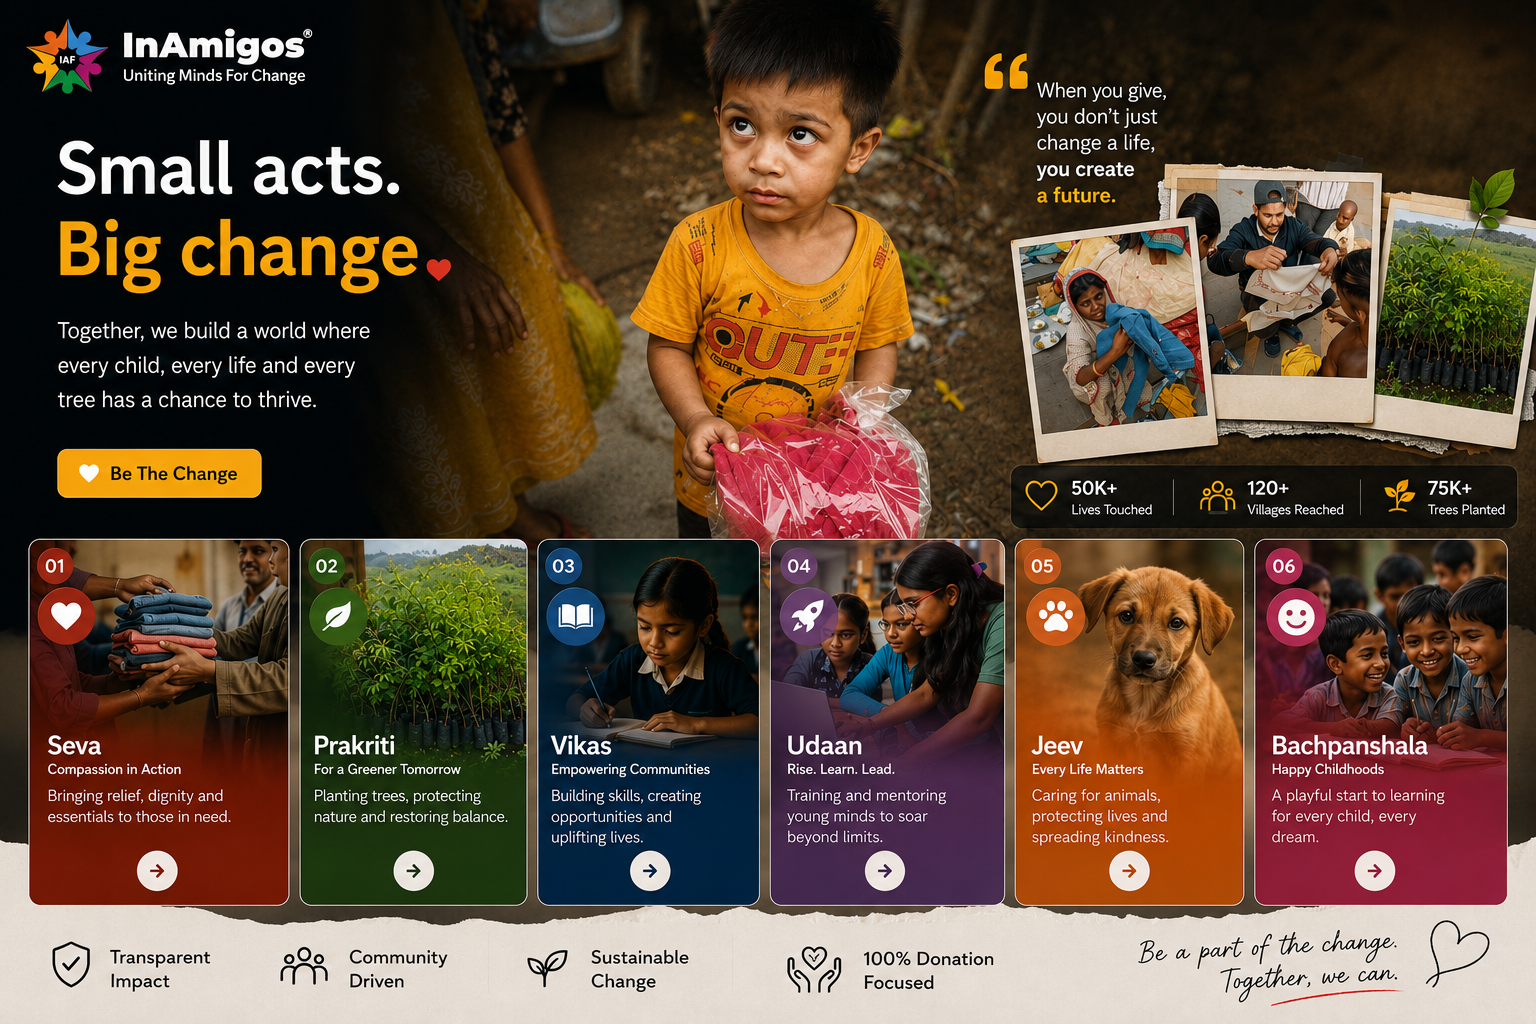
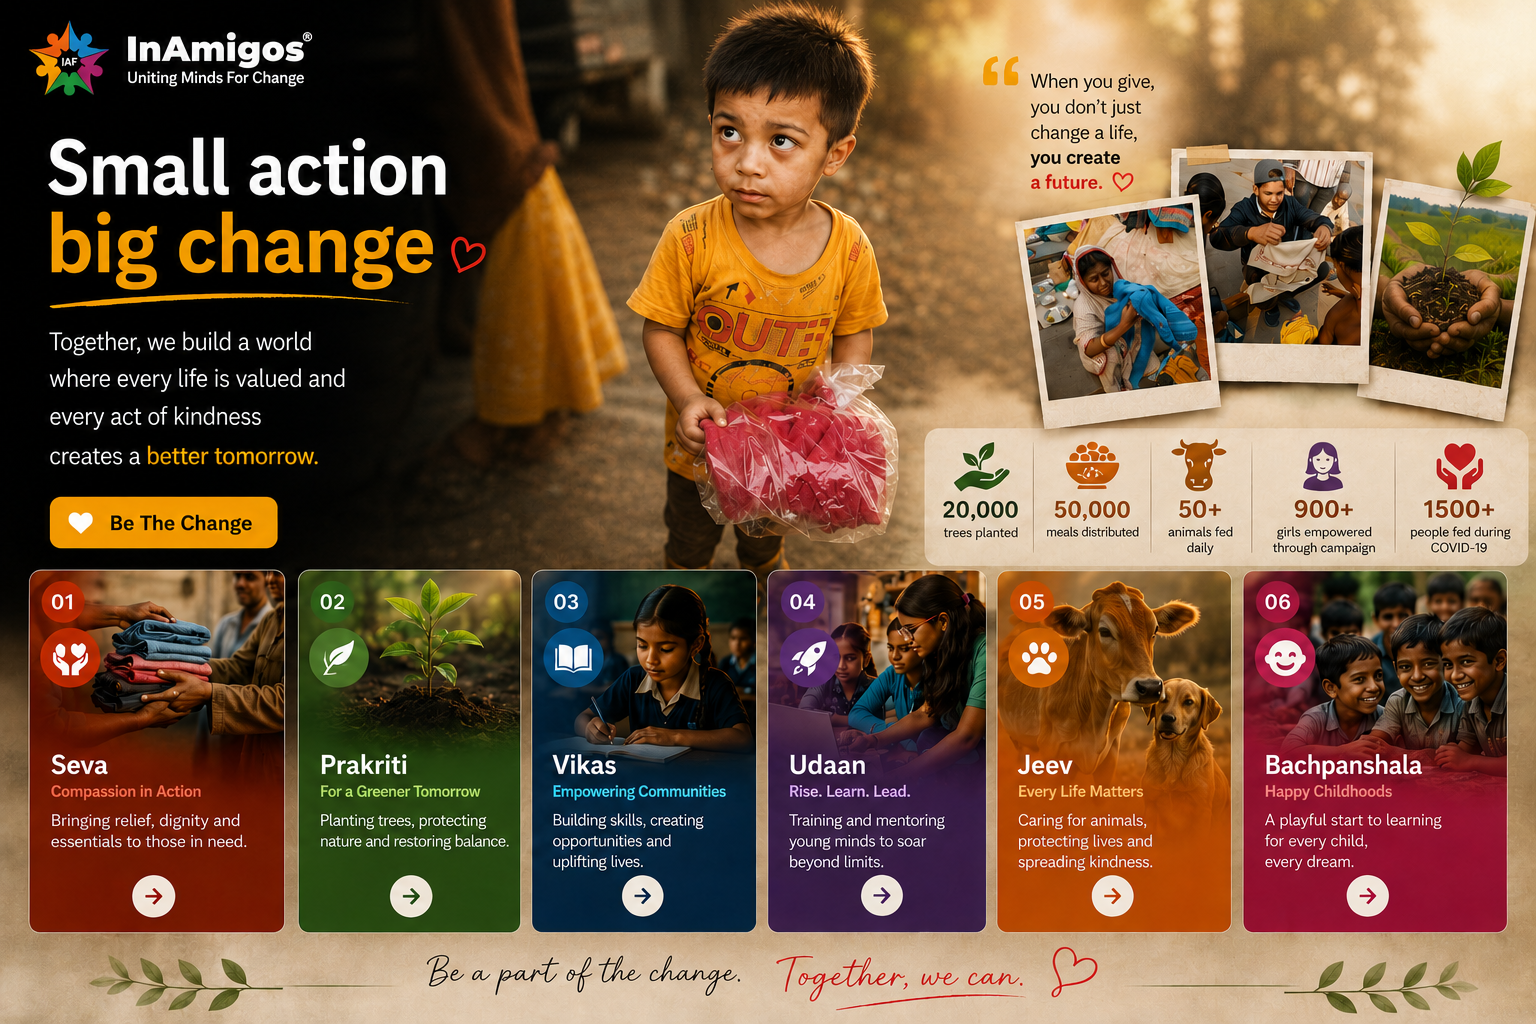
Add responsive hero images for all device widths with srcset and generator script.

diff --git a/index.html b/index.html
@@ -11,18 +11,30 @@
         <link
             rel="preload"
             as="image"
-            href="./assets/hero-mobile.webp"
+            href="./assets/hero/hero-640.webp"
             type="image/webp"
-            media="(max-width: 900px)"
+            media="(max-width: 768px)"
             fetchpriority="high"
+            imagesrcset="
+                ./assets/hero/hero-480.webp 480w,
+                ./assets/hero/hero-640.webp 640w,
+                ./assets/hero/hero-768.webp 768w
+            "
+            imagesizes="100vw"
         />
         <link
             rel="preload"
             as="image"
-            href="./assets/hero.webp"
+            href="./assets/hero/hero-1200.webp"
             type="image/webp"
-            media="(min-width: 901px)"
+            media="(min-width: 769px)"
             fetchpriority="high"
+            imagesrcset="
+                ./assets/hero/hero-1024.webp 1024w,
+                ./assets/hero/hero-1200.webp 1200w,
+                ./assets/hero/hero-1536.webp 1536w
+            "
+            imagesizes="(max-width: 1200px) 100vw, 1200px"
         />
         <link rel="stylesheet" href="styles.css" />
         <link rel="preconnect" href="https://fonts.googleapis.com" />
@@ -119,29 +131,44 @@
                     <div class="hero__banner">
                         <picture>
                             <source
-                                media="(max-width: 900px)"
-                                srcset="./assets/hero-mobile.webp"
                                 type="image/webp"
+                                srcset="
+                                    ./assets/hero/hero-480.webp 480w,
+                                    ./assets/hero/hero-640.webp 640w,
+                                    ./assets/hero/hero-768.webp 768w,
+                                    ./assets/hero/hero-1024.webp 1024w,
+                                    ./assets/hero/hero-1200.webp 1200w,
+                                    ./assets/hero/hero-1536.webp 1536w
+                                "
+                                sizes="(max-width: 1200px) 100vw, 1200px"
                             />
                             <source
-                                media="(max-width: 900px)"
-                                srcset="./assets/hero-mobile.jpg"
                                 type="image/jpeg"
-                            />
-                            <source
-                                srcset="./assets/hero.webp"
-                                type="image/webp"
-                            />
-                            <source
-                                srcset="./assets/hero.jpg"
-                                type="image/jpeg"
+                                srcset="
+                                    ./assets/hero/hero-480.jpg 480w,
+                                    ./assets/hero/hero-640.jpg 640w,
+                                    ./assets/hero/hero-768.jpg 768w,
+                                    ./assets/hero/hero-1024.jpg 1024w,
+                                    ./assets/hero/hero-1200.jpg 1200w,
+                                    ./assets/hero/hero-1536.jpg 1536w
+                                "
+                                sizes="(max-width: 1200px) 100vw, 1200px"
                             />
                             <img
-                                src="./assets/hero.jpg"
+                                src="./assets/hero/hero-1200.jpg"
+                                srcset="
+                                    ./assets/hero/hero-480.jpg 480w,
+                                    ./assets/hero/hero-640.jpg 640w,
+                                    ./assets/hero/hero-768.jpg 768w,
+                                    ./assets/hero/hero-1024.jpg 1024w,
+                                    ./assets/hero/hero-1200.jpg 1200w,
+                                    ./assets/hero/hero-1536.jpg 1536w
+                                "
+                                sizes="(max-width: 1200px) 100vw, 1200px"
                                 alt="InAmigos campaign banner: Small acts, big change — lives touched, villages reached, and trees planted across our programmes."
                                 class="hero__banner-img"
-                                width="1200"
-                                height="800"
+                                width="1536"
+                                height="1024"
                                 loading="eager"
                                 fetchpriority="high"
                                 decoding="sync"

diff --git a/tools/generate-hero-images.py b/tools/generate-hero-images.py
@@ -1,0 +1,37 @@
+"""Regenerate responsive hero images from assets/hero.png.
+
+Run: python tools/generate-hero-images.py
+"""
+from pathlib import Path
+from PIL import Image
+
+ROOT = Path(__file__).resolve().parents[1]
+SRC = ROOT / "assets" / "hero.png"
+OUT = ROOT / "assets" / "hero"
+WIDTHS = [480, 640, 768, 1024, 1200, 1536]
+
+
+def main():
+    OUT.mkdir(parents=True, exist_ok=True)
+    src = Image.open(SRC)
+    orig_w, orig_h = src.size
+
+    for w in WIDTHS:
+        if w > orig_w:
+            w = orig_w
+        ratio = w / orig_w
+        h = int(orig_h * ratio)
+        im = src.resize((w, h), Image.Resampling.LANCZOS)
+        im.save(OUT / f"hero-{w}.webp", "WEBP", quality=72, method=6)
+        im.save(
+            OUT / f"hero-{w}.jpg",
+            "JPEG",
+            quality=78,
+            optimize=True,
+            progressive=True,
+        )
+        print(f"hero-{w}: webp + jpg")
+
+
+if __name__ == "__main__":
+    main()
